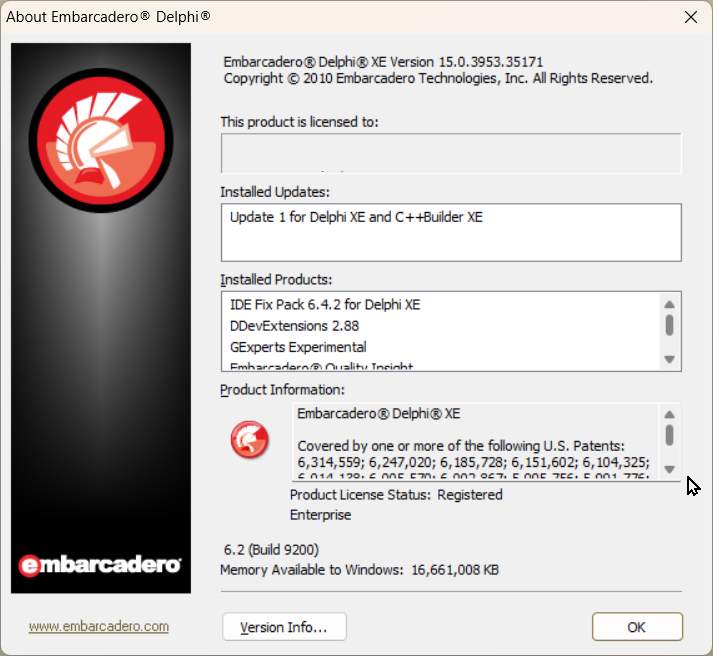
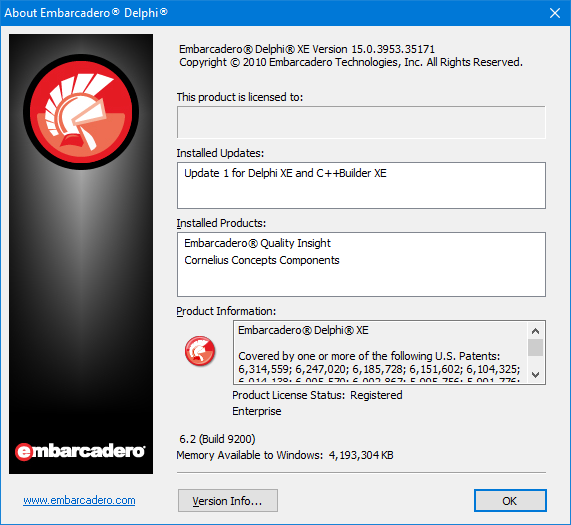
added about screens for the Delphi XE series

diff --git a/README.md b/README.md
@@ -27,5 +27,25 @@ Finally, both iOS and Android phone versions were added; an old version of the A
 
 The name of this repository might have some thinking this is a list of Delphi versions. That didn't occur to me until long after I had made this public and had several revisions. Recently, a [question on Delphi PRAXiS](https://en.delphipraxis.net/topic/11883-where-can-i-find-the-official-version-numbers-of-the-embarcadero-products/) prompted me to look for an official list of RAD Studio product version numbers and I was surprised not to find one. There are build numbers of the "latest" versions of products and there very well may be some list one could concoct by culling through the pages of the [DocWiki](https://docwiki.embarcadero.com/) but the closest one can find of a complete list of product numbers, at least for Delphi, is on [Wikipedia](https://en.wikipedia.org/wiki/History_of_Delphi_(software)); it's not official and it doesn't list the build numbers, so, I thought I'd augment this repository with a list of the About screens of the versions I have installed. I welcome screenshots from versions for which I don't have. You can view this [page](https://github.com/corneliusdavid/DelphiVersions/tree/master/AboutScreens) for list or just click on the links below for the ones you're interested in:
 
-- [Delphi 12.1](AboutScreens/D12.1.png)
-- [Delphi 11.3](AboutScreens/D11.3.png)
+- [Delphi 12](AboutScreens/D12.1.png)
+- [Delphi 11](AboutScreens/D11.3.png)
+- [Delphi 10.4](AboutScreens/D10.4.png)
+- Delphi 10.3 
+- Delphi 10.2
+- [Delphi 10.1](AboutScreens/D10.1.png)
+- Delphi 10
+- [Delphi XE8](AboutScreens/DXE8.png)
+- [Delphi XE7](AboutScreens/DXE7.png)
+- [Delphi XE6](AboutScreens/DXE6.png)
+- [Delphi XE5](AboutScreens/DXE5.png)
+- [Delphi XE4](AboutScreens/DXE4.png)
+- [Delphi XE3](AboutScreens/DXE3.png)
+- [Delphi XE2](AboutScreens/DXE2.png)
+- [Delphi XE](AboutScreens/DXE.png)
+- Delphi 2010
+- Delphi 2009
+- Delphi 2007
+- Delphi 2006
+-[Delphi 7](AboutScreens/D7.png)
+- Delphi 6
+- Delphi 5

diff --git a/AboutScreens/README.md b/AboutScreens/README.md
@@ -8,13 +8,22 @@
 
 - Delphi 10.3
 - Delphi 10.2
+
+![Delphi 10.1](D10.1.png)
+
 - Delphi 10
-- Delphi XE8
-- Delphi XE7
-- Delphi XE6
-- Delphi XE5
-- Delphi XE4
-- Delphi XE3
+
+![Delphi XE8](DXE8.png)
+
+![Delphi XE7](DXE7.png)
+
+![Delphi XE6](DXE6.png)
+
+![Delphi XE5](DXE5.png)
+
+![Delphi XE4](DXE4.png)
+
+![Delphi XE3](DXE3.png)
 
 ![Delphi XE2](DXE2.png)
 
@@ -29,3 +38,5 @@
 
 - Delphi 6
 - Delphi 5
+
+You can read about the history of the Borland/Embarcadero Delphi product line on [Wikipedia](https://en.wikipedia.org/wiki/History_of_Delphi_(software)).
